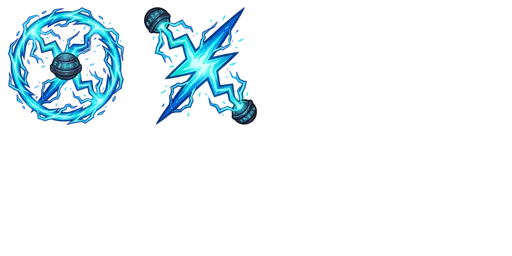
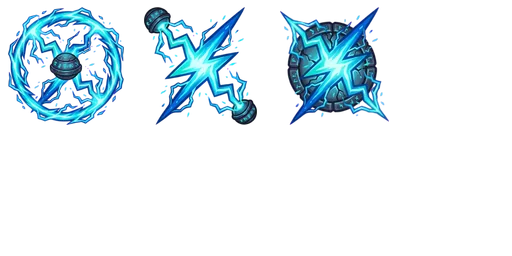
T-026 rodada 8: icon_static_crit (BRF-028)
Claude-Session: https://claude.ai/code/session_01EN3RX7GrhZzLgyZNfCYpmL

Changed region(s): [[0.5312, 0.0312, 0.7812, 0.5]]

diff --git a/art-source/preview.html b/art-source/preview.html
@@ -11,7 +11,7 @@ body.hit .hb::after{content:"";position:absolute;inset:4%;border:1px dashed #00e
 </style></head><body>
 <h1>RuneSling — assets</h1>
 <label><input type="checkbox" onchange="document.body.classList.toggle('hit',this.checked)"> mostrar círculo 92% (hitbox) e centro</label>
-<p>Faltando (17): icon_static_crit, icon_storm_orb, icon_fire_splash, icon_ignite, icon_supernova, icon_molten_core, icon_ghost_ball, icon_ricochet_crit, icon_wall_clone, icon_arcane_sight, icon_extra_orb, icon_power_surge, icon_bastion_heal, icon_gold_greed, floor_crypt, wall_trim_crypt, app_icon</p>
+<p>Faltando (16): icon_storm_orb, icon_fire_splash, icon_ignite, icon_supernova, icon_molten_core, icon_ghost_ball, icon_ricochet_crit, icon_wall_clone, icon_arcane_sight, icon_extra_orb, icon_power_surge, icon_bastion_heal, icon_gold_greed, floor_crypt, wall_trim_crypt, app_icon</p>
 <main>
 <figure data-key="boss_obsidian"><div class="spr hb" style="width:384px;height:384px;background:url('../public/assets/atlases/enemies.webp?v=f1924fb8') -2px -2px"></div><figcaption>boss_obsidian <small>enemies 384×384</small></figcaption></figure>
 <figure data-key="enemy_bomb"><div class="spr hb" style="width:256px;height:256px;background:url('../public/assets/atlases/enemies.webp?v=f1924fb8') -392px -2px"></div><figcaption>enemy_bomb <small>enemies 256×256</small></figcaption></figure>
@@ -25,12 +25,14 @@ body.hit .hb::after{content:"";position:absolute;inset:4%;border:1px dashed #00e
 <figure data-key="obstacle_bumper_rune"><div class="spr hb" style="width:192px;height:192px;background:url('../public/assets/atlases/enemies.webp?v=f1924fb8') -264px -788px"></div><figcaption>obstacle_bumper_rune <small>enemies 192×192</small></figcaption></figure>
 <figure data-key="obstacle_pillar_obsidian"><div class="spr hb" style="width:192px;height:192px;background:url('../public/assets/atlases/enemies.webp?v=f1924fb8') -916px -2px"></div><figcaption>obstacle_pillar_obsidian <small>enemies 192×192</small></figcaption></figure>
 <figure data-key="obstacle_ring_multiplier"><div class="spr hb" style="width:192px;height:192px;background:url('../public/assets/atlases/enemies.webp?v=f1924fb8') -916px -200px"></div><figcaption>obstacle_ring_multiplier <small>enemies 192×192</small></figcaption></figure>
-<figure data-key="icon_bumper_shock"><div class="spr hb" style="width:128px;height:128px;background:url('../public/assets/atlases/icons.webp?v=6f89a343') -2px -2px"></div><figcaption>icon_bumper_shock <small>icons 128×128</small></figcaption></figure>
-<figure data-key="icon_chain_lightning"><div class="spr hb" style="width:128px;height:128px;background:url('../public/assets/atlases/icons.webp?v=6f89a343') -136px -2px"></div><figcaption>icon_chain_lightning <small>icons 128×128</small></figcaption></figure>
+<figure data-key="icon_bumper_shock"><div class="spr hb" style="width:128px;height:128px;background:url('../public/assets/atlases/icons.webp?v=5ccee636') -2px -2px"></div><figcaption>icon_bumper_shock <small>icons 128×128</small></figcaption></figure>
+<figure data-key="icon_chain_lightning"><div class="spr hb" style="width:128px;height:128px;background:url('../public/assets/atlases/icons.webp?v=5ccee636') -136px -2px"></div><figcaption>icon_chain_lightning <small>icons 128×128</small></figcaption></figure>
+<figure data-key="icon_static_crit"><div class="spr hb" style="width:128px;height:128px;background:url('../public/assets/atlases/icons.webp?v=5ccee636') -270px -2px"></div><figcaption>icon_static_crit <small>icons 128×128</small></figcaption></figure>
 <figure data-key="icon_chain_lightning"><img src="../public/assets/icons/icon_chain_lightning.webp?v=f87711a0" alt="icon_chain_lightning"><figcaption>icon_chain_lightning <small>icons/icon_chain_lightning.webp</small></figcaption></figure>
 <figure data-key="icon_bumper_shock"><img src="../public/assets/icons/icon_bumper_shock.webp?v=1d95e1a0" alt="icon_bumper_shock"><figcaption>icon_bumper_shock <small>icons/icon_bumper_shock.webp</small></figcaption></figure>
+<figure data-key="icon_static_crit"><img src="../public/assets/icons/icon_static_crit.webp?v=c7352891" alt="icon_static_crit"><figcaption>icon_static_crit <small>icons/icon_static_crit.webp</small></figcaption></figure>
 </main>
 <h2>Atlases</h2>
 <main><figure><img class="sheet" src="../public/assets/atlases/enemies.webp?v=f1924fb8" alt="atlas enemies"><figcaption>atlas enemies 2048×1024</figcaption></figure>
-<figure><img class="sheet" src="../public/assets/atlases/icons.webp?v=6f89a343" alt="atlas icons"><figcaption>atlas icons 512×256</figcaption></figure></main>
+<figure><img class="sheet" src="../public/assets/atlases/icons.webp?v=5ccee636" alt="atlas icons"><figcaption>atlas icons 512×256</figcaption></figure></main>
 </body></html>

diff --git a/docs/arte-prompts.md b/docs/arte-prompts.md
@@ -211,7 +211,7 @@ Generate one square 1:1 image. round runic bumper releasing a ring-shaped cyan e
 - Arquivo a devolver: `art-source/raw/icons/icon_static_crit.png`
 - Anexar no Gemini: `art-source/anchors/icon_anchor.png`
 - Fundo: magenta · tamanho final 128 px
-- Situação: pendente
+- Situação: **entregue**
 
 ```text
 Generate one square 1:1 image. sharp cyan electric spark striking a cracked target mark, critical hit feeling (#00CEC9 to #0984E3). RPG skill icon, stylized hand-painted dark fantasy 2D game icon, one single central symbol, high contrast, crisp readable silhouette at 34 pixels, dark iron runic details, no frame, no border, no outer glow, no light bleeding outside the symbol, centered, no text, no letters, no numbers. Background: one solid flat pure magenta color (#FF00FF) filling the whole canvas, no gradient, no shadow, no floor, no vignette, no texture. Do not use magenta anywhere on the subject. Use the attached image only as a style reference: match its rendering, brush texture, rim construction, lighting direction, contrast and level of detail exactly, but draw the new subject described above. Do not copy its subject.
